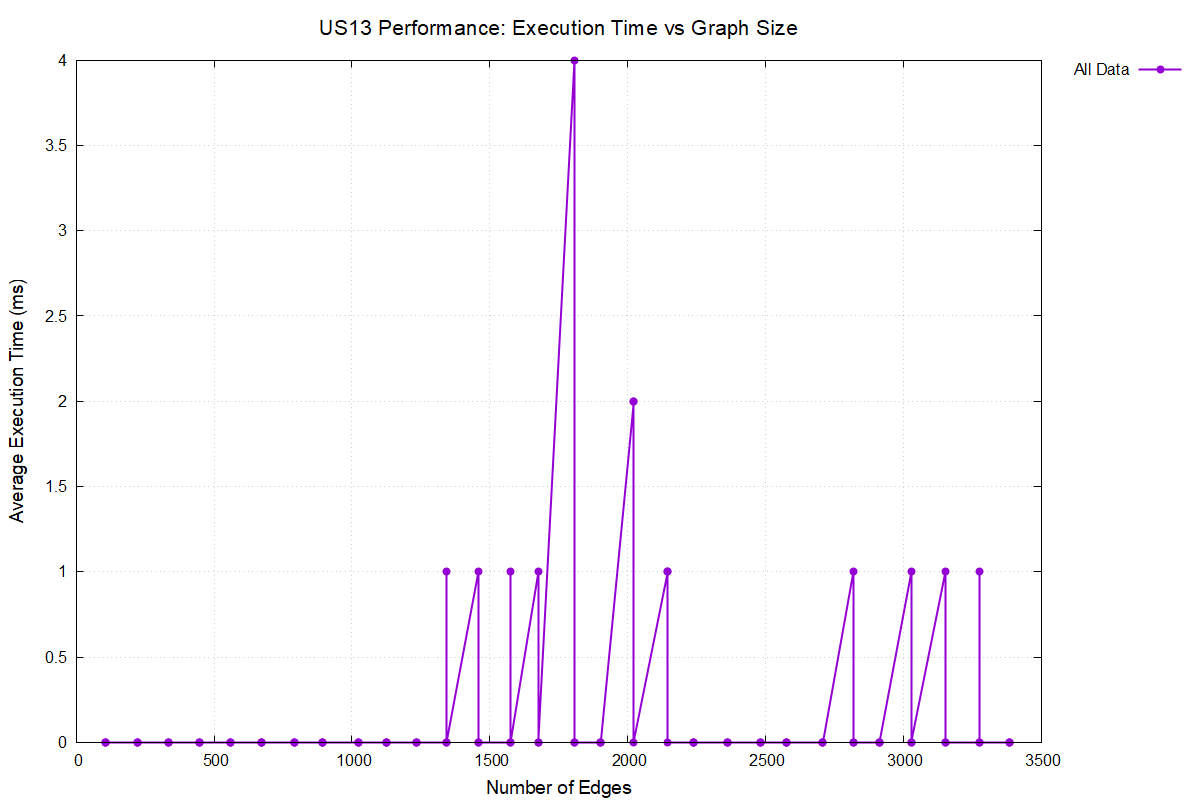
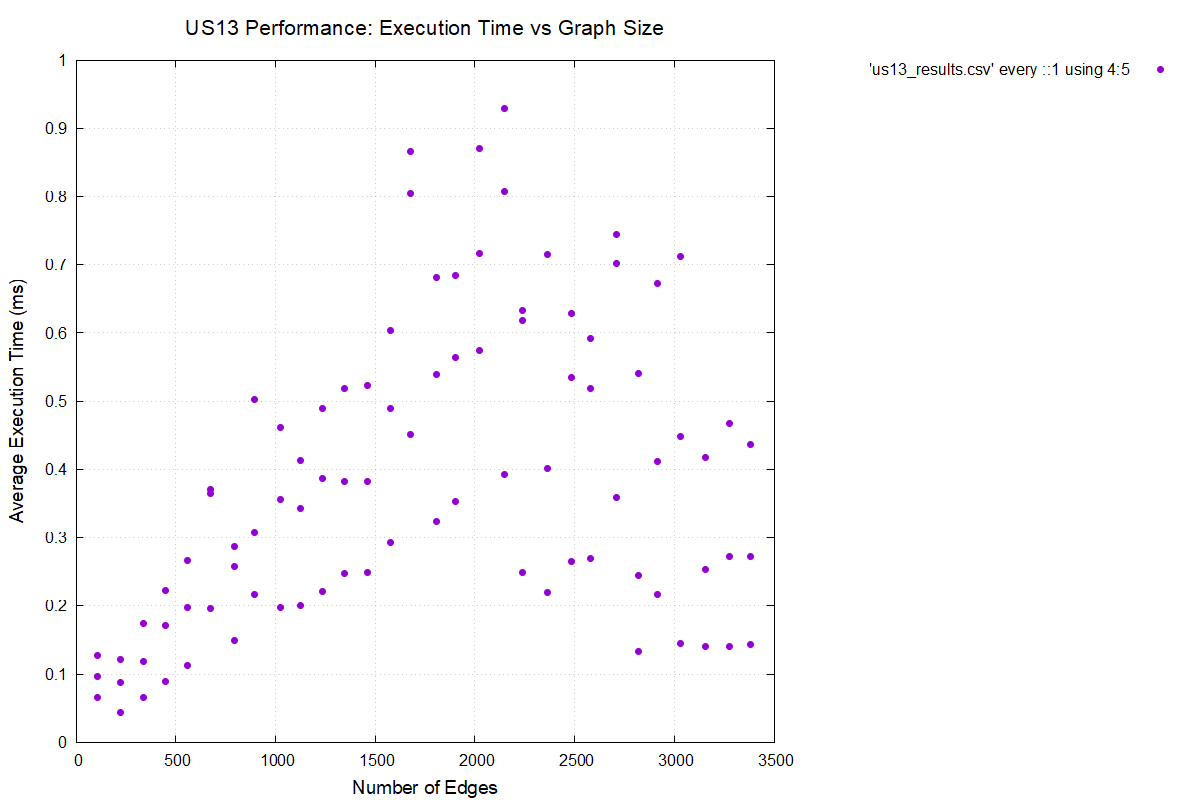
US29(code): updated graphic visualization

diff --git a/src/main/java/performance_testing/Main.java b/src/main/java/performance_testing/Main.java
@@ -81,18 +81,25 @@ public class Main {
                 for (PerformanceResult result : results) {
                     String[] parts = result.testName.split("-");
                     String trainType = parts.length > 1 ? parts[1] : "Unknown";
-                    writer.printf("%s,%s,%d,%d,%.3f%n",
-                            result.testName, trainType, result.vertexCount,
-                            result.edgeCount, result.avgTime / 1_000_000.0);
+                    writer.printf(
+                            Locale.US, "%s,%s,%d,%d,%.3f%n",
+                            result.testName,
+                            trainType,
+                            result.vertexCount,
+                            result.edgeCount,
+                            result.avgTime / 1_000_000.0);
                 }
             } else {
                 writer.println("TestCase,MaintenanceType,Edges,AvgTimeMs");
                 for (PerformanceResult result : results) {
                     String[] parts = result.testName.split("-");
                     String maintenanceType = parts.length > 1 ? parts[1].replace("_", " ") : "Unknown";
-                    writer.printf("%s,%s,%d,%.3f%n",
-                            result.testName, maintenanceType,
-                            result.edgeCount, result.avgTime / 1_000_000.0);
+                    writer.printf(
+                            Locale.US, "%s,%s,%d,%.3f%n",
+                            result.testName,
+                            maintenanceType,
+                            result.edgeCount,
+                            result.avgTime / 1_000_000.0);
                 }
             }
         }
@@ -109,11 +116,11 @@ public class Main {
             writer.println("set ylabel 'Average Execution Time (ms)' font 'Arial,14'");
             writer.println("set grid");
             writer.println("set key outside right");
+            writer.println("set autoscale");
             writer.println();
             writer.println("set datafile separator ','");
-            writer.println("set style data linespoints");
             writer.println();
-            writer.println("plot 'us13_results.csv' using 4:5 every ::1 title 'All Data' with linespoints pt 7 ps 1 lw 2");
+            writer.println("plot 'us13_results.csv' every ::1 using 4:5 with points pt 7 ps 1");
         }
 
         try (PrintWriter writer = new PrintWriter(new FileWriter("us14_plot.gp"))) {
@@ -126,15 +133,15 @@ public class Main {
             writer.println("set ylabel 'Average Execution Time (ms)' font 'Arial,14'");
             writer.println("set grid");
             writer.println("set key outside right");
+            writer.println("set autoscale");
             writer.println();
             writer.println("set datafile separator ','");
-            writer.println("set style data linespoints");
             writer.println();
-            writer.println("plot 'us14_results.csv' using 3:4 every ::1 title 'All Data' with linespoints pt 7 ps 1 lw 2");
+            writer.println("plot 'us14_results.csv' every ::1 using 3:4 with points pt 7 ps 1");
         }
 
         try (PrintWriter writer = new PrintWriter(new FileWriter("combined_plot.gp"))) {
-            writer.println("# Combined Performance Comparison - Simplified");
+            writer.println("# Combined Performance Comparison");
             writer.println("set terminal pngcairo enhanced font 'Arial,12' size 1400,1000");
             writer.println("set output 'combined_performance.png'");
             writer.println();
@@ -146,16 +153,18 @@ public class Main {
             writer.println("set ylabel 'Avg Time (ms)'");
             writer.println("set grid");
             writer.println("set key top left");
+            writer.println("set autoscale");
             writer.println("set datafile separator ','");
             writer.println();
-            writer.println("plot 'us13_results.csv' using 4:5 every ::1 title 'US13' with linespoints lw 2");
+            writer.println("plot 'us13_results.csv' every ::1 using 4:5 with points pt 7 ps 1");
             writer.println();
             writer.println("# US14 subplot");
             writer.println("set title 'US14: Performance vs Graph Size' font 'Arial,14'");
             writer.println("set xlabel 'Number of Edges'");
             writer.println("set ylabel 'Avg Time (ms)'");
+            writer.println("set autoscale");
             writer.println();
-            writer.println("plot 'us14_results.csv' using 3:4 every ::1 title 'US14' with linespoints lw 2");
+            writer.println("plot 'us14_results.csv' every ::1 using 3:4 with points pt 5 ps 1");
             writer.println();
             writer.println("unset multiplot");
         }
